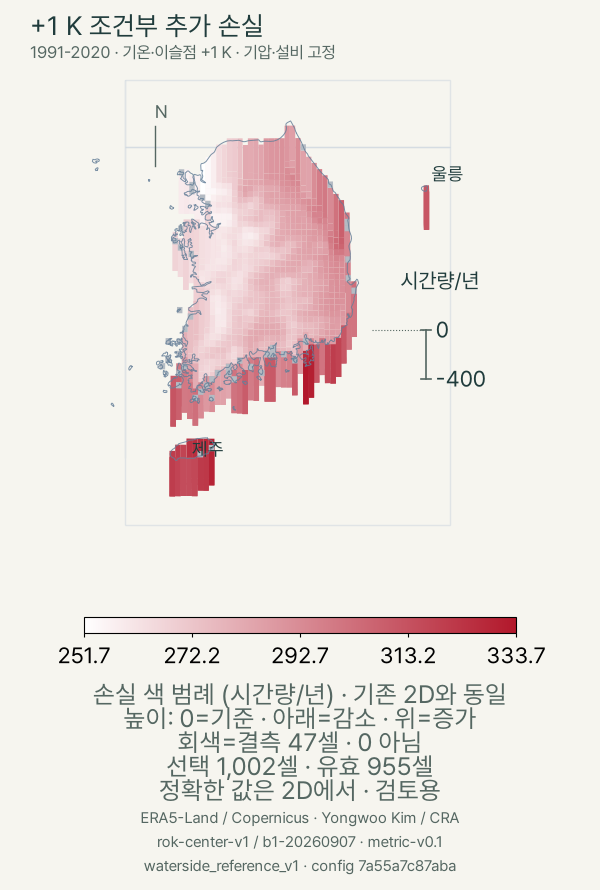
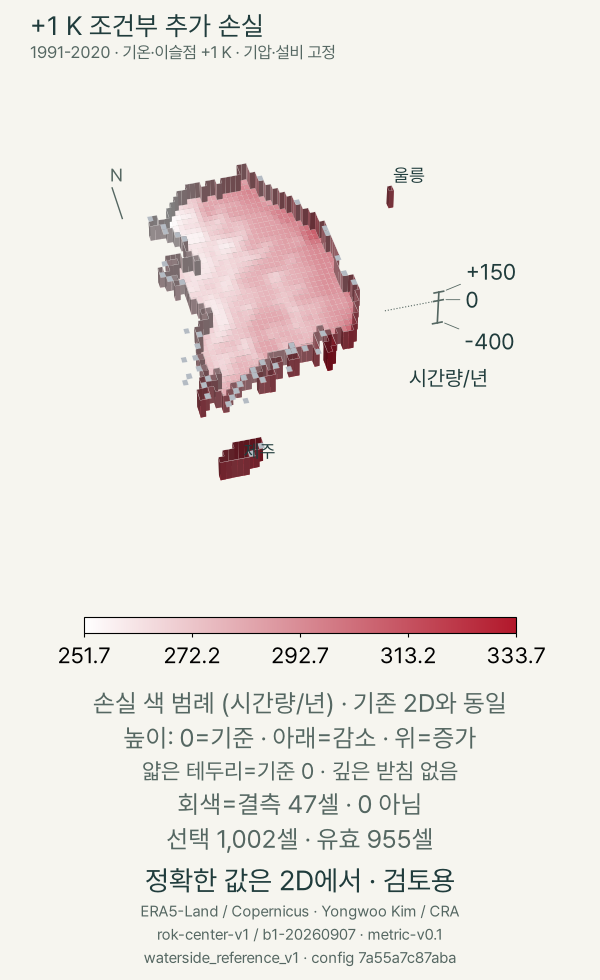
검토판 갱신: 3D 지도 시점·기둥 구조 (원본 7325191)

diff --git a/index.html b/index.html
@@ -10,7 +10,7 @@
 <p class="status">공개 패키지 검토본 · 검토용 표시 유지 <br class="mobile-break">이해 시험·최종 공개 승인은 아직 남아 있습니다.</p></div>
 <section id="time-maps" aria-labelledby="time-maps-title">
 <div class="section-label"><h2 id="time-maps-title">같은 장소, 달라진 냉기 자원</h2><p>각 셀의 1961–1970 평균 대비 · 십년씩 비교</p></div>
-<figure><div class="map-view" data-map-id="time-maps-desktop"><div class="map-toggle" role="group" aria-label="십년 편차 지도 보기 · 모든 지도 함께 전환" hidden><button type="button" data-map-mode="3d" aria-pressed="true">3D</button><button type="button" data-map-mode="2d" aria-pressed="false">2D</button><span>모든 지도 함께 전환</span></div><div data-map-panel="3d"><a href="assets/time-maps-3d-desktop.png" aria-label="십년 편차 3D 큰 원본 보기"><picture><source media="(max-width:760px)" srcset="assets/time-maps-3d-mobile.png" width="1200" height="2390"><img src="assets/time-maps-3d-desktop.png" width="1800" height="1570" alt="여섯 십년의 냉기 자원 3D 지도. 깊이=감소량, 1961–1970 기준면 0에서 감소는 아래로, 증가는 위로 표시합니다. 공통 깊이 축 −400~+150 시간량/년. 색은 기존 편차 지도와 같은 −300~+300 시간량/년, 빨강은 감소, 파랑은 증가. 회색 47셀은 결측이며 0이 아닙니다."></picture></a></div><div data-map-panel="2d" hidden><a href="assets/time-maps-desktop.png" aria-label="십년 편차 지도 큰 원본 보기"><picture><source media="(max-width:760px)" srcset="assets/time-maps-mobile.png" width="780" height="960"><img src="assets/time-maps-desktop.png" width="1440" height="690" alt="1961–1970부터 2011–2020까지 여섯 십년의 냉기 자원 편차 지도. 각 셀의 첫 십년 평균이 기준 0이며 빨강은 감소, 파랑은 증가입니다. 모든 지도는 −300~+300 시간량/년 공통 선형 범례, 회색 빗금은 결측입니다."></picture></a></div><p class="map-reading">깊이=감소량 · 정확한 값은 2D에서. <a href="assets/time-maps-desktop.png">2D 이미지 열기</a></p></div>
+<figure><div class="map-view" data-map-id="time-maps-desktop"><div class="map-toggle" role="group" aria-label="십년 편차 지도 보기 · 모든 지도 함께 전환" hidden><button type="button" data-map-mode="3d" aria-pressed="true">3D</button><button type="button" data-map-mode="2d" aria-pressed="false">2D</button><span>모든 지도 함께 전환</span></div><div data-map-panel="3d"><a href="assets/time-maps-3d-desktop.png" aria-label="십년 편차 3D 큰 원본 보기"><picture><source media="(max-width:760px)" srcset="assets/time-maps-3d-mobile.png" width="1200" height="2560"><img src="assets/time-maps-3d-desktop.png" width="1800" height="1660" alt="여섯 십년의 냉기 자원 3D 지도. 깊이=감소량, 1961–1970 기준면 0에서 감소는 아래로, 증가는 위로 표시합니다. 공통 깊이 축 −400~+150 시간량/년. 색은 기존 편차 지도와 같은 −300~+300 시간량/년, 빨강은 감소, 파랑은 증가. 회색 47셀은 결측이며 0이 아닙니다. 깊은 받침 없이 얇은 테두리만 기준 0에 남깁니다. 기둥은 0에서 값까지이며 값 색 면은 음영 없이, 기둥 옆벽만 음영을 줍니다."></picture></a></div><div data-map-panel="2d" hidden><a href="assets/time-maps-desktop.png" aria-label="십년 편차 지도 큰 원본 보기"><picture><source media="(max-width:760px)" srcset="assets/time-maps-mobile.png" width="780" height="960"><img src="assets/time-maps-desktop.png" width="1440" height="690" alt="1961–1970부터 2011–2020까지 여섯 십년의 냉기 자원 편차 지도. 각 셀의 첫 십년 평균이 기준 0이며 빨강은 감소, 파랑은 증가입니다. 모든 지도는 −300~+300 시간량/년 공통 선형 범례, 회색 빗금은 결측입니다."></picture></a></div><p class="map-reading">3D 깊이=감소량 · 얇은 테두리=기준 0 · 기둥은 0에서 값까지. 정확한 값은 2D에서. <a href="assets/time-maps-desktop.png">2D 이미지 열기</a></p></div>
 <figcaption>정확한 값은 2D에서 확인하세요. 3D에서는 앞쪽 셀이 뒤쪽을 가릴 수 있습니다. 각 지도는 겹치지 않는 10년 평균입니다. 첫 지도의 0은 ‘냉기 자원 없음’이 아니라 ‘기준과 같음’입니다. 약 10km 격자·무보간. <a href="methodology.html#time-visuals">기간·색·계산 방법</a></figcaption></figure>
 <section id="cooling-3d" aria-labelledby="cooling-3d-title"><h3 id="cooling-3d-title">꺼져 가는 냉기 자원(3D)</h3>
 <p>1961–1970 수준을 0으로 둔 판이 냉기 자원이 줄어든 만큼 꺼집니다. <strong>깊이 = 시간량/년</strong>이며, 실제 지형이나 저장된 물질을 뜻하지 않습니다.</p>
@@ -23,10 +23,10 @@
 <p><strong>첫 십년(1961–1970)보다 마지막 십년(2011–2020)의 냉기 자원이 1년에 약 164시간량 적습니다.</strong> 매년 164시간량씩 줄어든다는 뜻도, 60년 누적량도 아닙니다. 중간에 반등한 십년도 있습니다.</p>
 <figure class="bar-figure"><picture><source media="(max-width:760px)" srcset="assets/time-bars-mobile.png" width="780" height="850"><img loading="lazy" src="assets/time-bars-desktop.png" width="1440" height="740" alt="각 십년의 전국 냉기 자원 평균에서 1961–1970 평균을 뺀 막대. 순서대로 0, +2.9, −52.0, −29.4, −128.6, −163.8 시간량/년. 막대는 0에서 출발하며 중간 증가도 표시합니다."></picture><figcaption>십년 평균의 차이(비교−기준). 위 헤드라인의 91시간량은 30년 평균끼리 비교한 값으로, 기준·비교 기간이 다릅니다. 2020년은 2011–2020 십년에 포함됩니다.</figcaption></figure></section>
 <section id="sensitivity"><p class="eyebrow">03 · Conditional experiment / 과거 비교와 구분</p><h2>기온과 이슬점을 함께 1도 높여 보면</h2>
-<div class="columns"><figure><div class="map-view" data-map-id="sensitivity"><div class="map-toggle" role="group" aria-label="조건부 +1 K 지도 보기 · 모든 지도 함께 전환" hidden><button type="button" data-map-mode="3d" aria-pressed="true">3D</button><button type="button" data-map-mode="2d" aria-pressed="false">2D</button><span>모든 지도 함께 전환</span></div><div data-map-panel="3d"><a href="assets/sensitivity-3d.png" aria-label="조건부 +1 K 3D 큰 원본 보기"><img loading="lazy" src="assets/sensitivity-3d.png" width="600" height="890" alt="조건부 +1 K 냉기 자원 추가 손실 3D 지도. 깊이=감소량, 기준면 0에서 251.7~333.7 시간량/년 모두 아래로 내려갑니다. 시간량 지도와 같은 깊이 축 −400~+150 시간량/년. 색은 기존 2D 최소–최대 빨강 범례. 회색은 결측이며 0이 아닙니다."></a></div><div data-map-panel="2d" hidden><a href="assets/sensitivity.png"><img loading="lazy" src="assets/sensitivity.png" width="1440" height="1800" alt="기온과 이슬점을 함께 1 K 높인 조건부 냉기 자원 추가 손실 지도. 기압과 설비 고정. 국내 유효셀 251.7~333.7 시간량/년 최소–최대 선형 범례이며 0에서 시작하지 않습니다."></a></div><p class="map-reading">깊이=감소량 · 정확한 값은 2D에서. <a href="assets/sensitivity.png">2D 이미지 열기</a></p></div><figcaption>정확한 값은 2D에서 · 조건부 +1 K 냉기 자원 추가 손실 · 시간량/년</figcaption></figure><div><span class="tag">조건부 모형 실험 · 미래 예보 아님</span><h3>같은 설비, 다른 기상 입력</h3><p>1991–2020 기상자료의 <strong>건구온도와 노점온도를 함께 +1 K</strong> 이동시켜 계산했습니다. 기압과 설비는 고정했습니다. 이 가정에서 냉기 자원이 얼마나 더 줄어드는지 보여줍니다.</p><p>국내 유효셀의 추가 손실은 251.7–333.7 시간량/년입니다. 색은 이 최소–최대 범위에 선형으로 대응하며 <strong>0에서 시작하지 않습니다</strong>. 옅은 색도 손실이며 안전을 뜻하지 않습니다.</p><p>특정 미래 시기의 변화, 손실 속도나 가속도를 예측하는 값이 아닙니다. 위의 과거 기간 차이에 더하거나 같은 종류의 비교로 읽지 않습니다.</p><p><a href="methodology.html#metrics">+1 K 섭동의 가정과 한계 →</a></p></div></div></section>
+<div class="columns"><figure><div class="map-view" data-map-id="sensitivity"><div class="map-toggle" role="group" aria-label="조건부 +1 K 지도 보기 · 모든 지도 함께 전환" hidden><button type="button" data-map-mode="3d" aria-pressed="true">3D</button><button type="button" data-map-mode="2d" aria-pressed="false">2D</button><span>모든 지도 함께 전환</span></div><div data-map-panel="3d"><a href="assets/sensitivity-3d.png" aria-label="조건부 +1 K 3D 큰 원본 보기"><img loading="lazy" src="assets/sensitivity-3d.png" width="600" height="980" alt="조건부 +1 K 냉기 자원 추가 손실 3D 지도. 깊이=감소량, 기준면 0에서 251.7~333.7 시간량/년 모두 아래로 내려갑니다. 시간량 지도와 같은 깊이 축 −400~+150 시간량/년. 색은 기존 2D 최소–최대 빨강 범례. 회색은 결측이며 0이 아닙니다. 깊은 받침 없이 얇은 테두리만 기준 0에 남깁니다. 기둥은 0에서 값까지이며 값 색 면은 음영 없이, 기둥 옆벽만 음영을 줍니다."></a></div><div data-map-panel="2d" hidden><a href="assets/sensitivity.png"><img loading="lazy" src="assets/sensitivity.png" width="1440" height="1800" alt="기온과 이슬점을 함께 1 K 높인 조건부 냉기 자원 추가 손실 지도. 기압과 설비 고정. 국내 유효셀 251.7~333.7 시간량/년 최소–최대 선형 범례이며 0에서 시작하지 않습니다."></a></div><p class="map-reading">3D 깊이=감소량 · 얇은 테두리=기준 0 · 기둥은 0에서 값까지. <strong>가려지는 셀이 많습니다. 정확한 값은 2D에서.</strong> <a href="assets/sensitivity.png">2D 이미지 열기</a></p></div><figcaption>정확한 값은 2D에서 · 조건부 +1 K 냉기 자원 추가 손실 · 시간량/년</figcaption></figure><div><span class="tag">조건부 모형 실험 · 미래 예보 아님</span><h3>같은 설비, 다른 기상 입력</h3><p>1991–2020 기상자료의 <strong>건구온도와 노점온도를 함께 +1 K</strong> 이동시켜 계산했습니다. 기압과 설비는 고정했습니다. 이 가정에서 냉기 자원이 얼마나 더 줄어드는지 보여줍니다.</p><p>국내 유효셀의 추가 손실은 251.7–333.7 시간량/년입니다. 색은 이 최소–최대 범위에 선형으로 대응하며 <strong>0에서 시작하지 않습니다</strong>. 옅은 색도 손실이며 안전을 뜻하지 않습니다.</p><p>특정 미래 시기의 변화, 손실 속도나 가속도를 예측하는 값이 아닙니다. 위의 과거 기간 차이에 더하거나 같은 종류의 비교로 읽지 않습니다.</p><p><a href="methodology.html#metrics">+1 K 섭동의 가정과 한계 →</a></p></div></div></section>
 <section id="maps"><p class="eyebrow">Regional comparison · 1961–1990 / 1991–2020</p><h2>지역별로 보면</h2><div class="cards regional-cards">
-<article><h3>냉기 자원 감소</h3><figure><div class="map-view" data-map-id="ench-loss"><div class="map-toggle" role="group" aria-label="냉기 자원 감소 지도 보기 · 모든 지도 함께 전환" hidden><button type="button" data-map-mode="3d" aria-pressed="true">3D</button><button type="button" data-map-mode="2d" aria-pressed="false">2D</button><span>모든 지도 함께 전환</span></div><div data-map-panel="3d"><a href="assets/ench-loss-3d.png" aria-label="냉기 자원 감소 3D 큰 원본 보기"><img loading="lazy" src="assets/ench-loss-3d.png" width="600" height="890" alt="지역별 냉기 자원 감소 3D 지도. 깊이=감소량, 1961–1990 대비 1991–2020 손실만큼 기준면 0 아래로 내려갑니다. 공통 깊이 축 −400~+150 시간량/년. 색은 기존 2D와 같은 0–130 시간량/년 빨강 범례. 회색은 결측이며 0이 아닙니다."></a></div><div data-map-panel="2d" hidden><a href="assets/ench-loss.png"><img loading="lazy" src="assets/ench-loss.png" width="1440" height="1800" alt="지역별 냉기 자원 감소량. 1961–1990 대비 1991–2020, 0–130 시간량/년 범례. 양수는 감소, 진한 빨강일수록 감소가 큽니다."></a></div><p class="map-reading">깊이=감소량 · 정확한 값은 2D에서. <a href="assets/ench-loss.png">2D 이미지 열기</a></p></div><figcaption>정확한 값은 2D에서 · 두 30년 기간의 비교. 0–130 시간량/년 선형 범례, 0은 변화 없음입니다. 위 편차 지도와 달리 양수가 감소입니다.</figcaption></figure></article>
-<article><h3>서늘했던 야간시간 감소</h3><figure><div class="map-view" data-map-id="nch20-loss"><div class="map-toggle" role="group" aria-label="서늘한 야간시간 감소 지도 보기 · 모든 지도 함께 전환" hidden><button type="button" data-map-mode="3d" aria-pressed="true">3D</button><button type="button" data-map-mode="2d" aria-pressed="false">2D</button><span>모든 지도 함께 전환</span></div><div data-map-panel="3d"><a href="assets/nch20-loss-3d.png" aria-label="서늘한 야간시간 감소 3D 큰 원본 보기"><img loading="lazy" src="assets/nch20-loss-3d.png" width="600" height="890" alt="NCH20 감소 3D 지도. 깊이=감소량, 기준면 0에서 감소는 아래로, 증가는 위로 표시합니다. 깊이 축 −400~+150 시간/년이며 시계 시간입니다. 1시간의 그림 높이는 1시간량과 같지만 서로 다른 양입니다. 색은 기존 2D와 같은 −5–95 시간/년 범례. 회색은 결측이며 0이 아닙니다."></a></div><div data-map-panel="2d" hidden><a href="assets/nch20-loss.png"><img loading="lazy" src="assets/nch20-loss.png" width="1440" height="1800" alt="NCH20 감소량. −5–95 시간/년 비대칭 선형 범례, 검은 눈금은 0. 양수는 감소, 음수는 증가."></a></div><p class="map-reading">깊이=감소량 · 정확한 값은 2D에서. <a href="assets/nch20-loss.png">2D 이미지 열기</a></p></div><figcaption>정확한 값은 2D에서 · 시간량과는 서로 다른 양이며 합산하지 않습니다. 1시간의 그림 높이만 1시간량과 같습니다. KST 21:00–06:59, 기온 ≤20°C. −5–95 시간/년 비대칭 선형 범례. 양수=감소, 음수=증가, 검은 선=0입니다.</figcaption></figure></article></div>
+<article><h3>냉기 자원 감소</h3><figure><div class="map-view" data-map-id="ench-loss"><div class="map-toggle" role="group" aria-label="냉기 자원 감소 지도 보기 · 모든 지도 함께 전환" hidden><button type="button" data-map-mode="3d" aria-pressed="true">3D</button><button type="button" data-map-mode="2d" aria-pressed="false">2D</button><span>모든 지도 함께 전환</span></div><div data-map-panel="3d"><a href="assets/ench-loss-3d.png" aria-label="냉기 자원 감소 3D 큰 원본 보기"><img loading="lazy" src="assets/ench-loss-3d.png" width="600" height="980" alt="지역별 냉기 자원 감소 3D 지도. 깊이=감소량, 1961–1990 대비 1991–2020 손실만큼 기준면 0 아래로 내려갑니다. 공통 깊이 축 −400~+150 시간량/년. 색은 기존 2D와 같은 0–130 시간량/년 빨강 범례. 회색은 결측이며 0이 아닙니다. 깊은 받침 없이 얇은 테두리만 기준 0에 남깁니다. 기둥은 0에서 값까지이며 값 색 면은 음영 없이, 기둥 옆벽만 음영을 줍니다."></a></div><div data-map-panel="2d" hidden><a href="assets/ench-loss.png"><img loading="lazy" src="assets/ench-loss.png" width="1440" height="1800" alt="지역별 냉기 자원 감소량. 1961–1990 대비 1991–2020, 0–130 시간량/년 범례. 양수는 감소, 진한 빨강일수록 감소가 큽니다."></a></div><p class="map-reading">3D 깊이=감소량 · 얇은 테두리=기준 0 · 기둥은 0에서 값까지. 정확한 값은 2D에서. <a href="assets/ench-loss.png">2D 이미지 열기</a></p></div><figcaption>정확한 값은 2D에서 · 두 30년 기간의 비교. 0–130 시간량/년 선형 범례, 0은 변화 없음입니다. 위 편차 지도와 달리 양수가 감소입니다.</figcaption></figure></article>
+<article><h3>서늘했던 야간시간 감소</h3><figure><div class="map-view" data-map-id="nch20-loss"><div class="map-toggle" role="group" aria-label="서늘한 야간시간 감소 지도 보기 · 모든 지도 함께 전환" hidden><button type="button" data-map-mode="3d" aria-pressed="true">3D</button><button type="button" data-map-mode="2d" aria-pressed="false">2D</button><span>모든 지도 함께 전환</span></div><div data-map-panel="3d"><a href="assets/nch20-loss-3d.png" aria-label="서늘한 야간시간 감소 3D 큰 원본 보기"><img loading="lazy" src="assets/nch20-loss-3d.png" width="600" height="980" alt="NCH20 감소 3D 지도. 깊이=감소량, 기준면 0에서 감소는 아래로, 증가는 위로 표시합니다. 깊이 축 −400~+150 시간/년이며 시계 시간입니다. 1시간의 그림 높이는 1시간량과 같지만 서로 다른 양입니다. 색은 기존 2D와 같은 −5–95 시간/년 범례. 회색은 결측이며 0이 아닙니다. 깊은 받침 없이 얇은 테두리만 기준 0에 남깁니다. 기둥은 0에서 값까지이며 값 색 면은 음영 없이, 기둥 옆벽만 음영을 줍니다."></a></div><div data-map-panel="2d" hidden><a href="assets/nch20-loss.png"><img loading="lazy" src="assets/nch20-loss.png" width="1440" height="1800" alt="NCH20 감소량. −5–95 시간/년 비대칭 선형 범례, 검은 눈금은 0. 양수는 감소, 음수는 증가."></a></div><p class="map-reading">3D 깊이=감소량 · 얇은 테두리=기준 0 · 기둥은 0에서 값까지. 정확한 값은 2D에서. <a href="assets/nch20-loss.png">2D 이미지 열기</a></p></div><figcaption>정확한 값은 2D에서 · 시간량과는 서로 다른 양이며 합산하지 않습니다. 1시간의 그림 높이만 1시간량과 같습니다. KST 21:00–06:59, 기온 ≤20°C. −5–95 시간/년 비대칭 선형 범례. 양수=감소, 음수=증가, 검은 선=0입니다.</figcaption></figure></article></div>
 <!-- DISTRIBUTION:START -->
 <div class="table-scroll"><table><caption>국내 중심점 분포 · 지표별 단위 구분</caption><thead><tr><th scope="col">지표</th><th scope="col">최소</th><th scope="col">중앙</th><th scope="col">최대</th><th scope="col">유효 / 결측 셀</th></tr></thead><tbody><tr><th scope="row">냉기 자원 감소 (시간량/년)</th><td>33.4</td><td>92.9</td><td>126.2</td><td>955 / 47</td></tr><tr><th scope="row">NCH20 감소 (시간/년)</th><td>-2.1</td><td>46.5</td><td>94.2</td><td>955 / 47</td></tr><tr><th scope="row">조건부 +1 K 냉기 자원 추가 손실 (시간량/년)</th><td>251.7</td><td>277.5</td><td>333.7</td><td>955 / 47</td></tr></tbody></table></div>
 <!-- DISTRIBUTION:END --><p>소수 자릿수는 계산값을 표시·대조하기 위한 것이며 0.1시간량·0.1시간 수준의 정확도를 뜻하지 않습니다. 자료·설비·경계 선택과 기간 간 변동에 따른 불확실성을 합친 신뢰구간은 제시하지 않았습니다. 기준·비교·차이는 각각 반올림하므로 표시값의 뺄셈과 차이가 날 수 있습니다.</p><p class="muted">국내 유효셀 중심점의 비가중 분포이며 전국 총량·면적가중 평균·인구 위험이 아닙니다.</p></section>

diff --git a/methodology.html b/methodology.html
@@ -6,7 +6,7 @@
 <h3>전국 값과 헤드라인: 두 표준 30년 기간</h3><p>연도별 전국 냉기 자원은 국가 마스크 included=True인 1,002셀 중 60년 모두 유효한 955셀의 비가중 평균입니다. 전 기간 결측인 47셀은 제외하며 0으로 채우지 않습니다. 면적·인구가중 평균이나 전국 총량이 아닙니다.</p><p><code>전국 연간값 = 유효 955셀의 냉기 자원 산술평균</code><br><code>30년 감소량 = mean(1961–1990) − mean(1991–2020)</code></p><p>기준 6,265.389 → 비교 6,174.487 시간량/년, 감소 90.902 시간량/년입니다. 감소율은 기준기간 전체 냉기 자원를 분모로 한 1.450865%이며, 헤드라인은 각각 <strong>91시간량·1.5%</strong>로 반올림합니다. 누적 손실이나 매년 줄어드는 속도가 아닙니다.</p>
 <h3>십년 편차 지도와 막대: 다른 기간을 비교합니다</h3><p>구간은 <strong>1961–1970, 1971–1980, 1981–1990, 1991–2000, 2001–2010, 2011–2020</strong>입니다. 각각 10개 완결연도이며 2020은 마지막 십년에 포함합니다. 1961–1969처럼 9년인 첫 구간이나 2020 단년 구간은 만들지 않습니다.</p><p><code>셀별 편차 = 해당 십년 셀 평균 − 그 셀의 1961–1970 평균</code><br><code>전국 막대 = 해당 십년 전국 평균 − 1961–1970 전국 평균</code></p><p>정적 여섯 지도와 막대는 <strong>서로 겹치지 않는 십년 평균</strong>이며 후행 이동평균선이 아닙니다. 지도는 기존과 같은 국가 마스크·0.1°셀·EPSG:5179 투영·전국 고정 시야이며 공간 보간하지 않습니다. 막대는 0에서 출발하고 중간의 증가도 표시합니다.</p><p>지도 색은 <strong>−300~+300 시간량/년</strong>, 0 중심 대칭 선형 범례로 전 셀·전 51개 후행창의 편차 범위(−255.47~+107.35)를 포함합니다. 모든 정적 지도와 편차 영상에서 고정합니다. 빨강은 음의 변화(감소), 파랑은 양의 변화(증가), 0은 기준과 같음, 회색 빗금은 결측입니다. 기준 지도에서 흰색은 냉기 자원 자체가 0이라는 뜻이 아닙니다.</p><p>헤드라인의 30년 비교와 막대의 첫·끝 십년 비교는 기준·비교 기간이 달라 감소량이 다릅니다. 어느 수치도 연간 감소 속도나 누적량이 아닙니다. 이 비교에서는 일 단위 환산을 사용하지 않습니다.</p>
 <h3>선택 재생 편차 영상</h3><p>각 셀의 후행 10년 평균에서 1961–1970 평균을 뺍니다. 10개 유효연도가 모두 있어야 계산하며, 첫 창 1961–1970부터 마지막 창 2011–2020까지 종료연도 1970–2020의 51프레임·8fps입니다. 공간·시간 보간하지 않고 자동재생하지 않습니다. 겹치는 창은 독립 표본이 아닙니다.</p>
-<h3 id="three-d-method">보조 영상: 기준면 아래로 꺼지는 3D B판</h3><p><strong>정적 지도 4종은 3D가 기본</strong>이며, 어느 지도에서든 3D / 2D 버튼을 누르면 모두 함께 전환됩니다. 선택은 이 브라우저에 저장됩니다. JavaScript가 꺼져 있어도 3D와 2D 원본 링크를 볼 수 있습니다.</p><p>정적 3D는 <strong>기준면 0</strong>에서 감소량만큼 아래로, 증가량만큼 위로 그립니다. 십년 편차·두 30년 냉기 자원 감소·+1 K 조건부 손실은 <strong>−400~+150 시간량/년의 같은 깊이 눈금과 같은 지리 대비 높이 비율</strong>을 씁니다. 민감도도 0에서 내려가며 축을 자르지 않습니다. 화면에 맞춘 그림 전체의 축소는 다를 수 있으므로 눈금으로 비교하세요. NCH20도 <strong>−400~+150 시간/년</strong>에 같은 높이 비율을 적용합니다. 그림에서 1시간과 1시간량의 높이는 같지만 <strong>서로 다른 양</strong>이며 합산하거나 물리적으로 같다고 해석하지 않습니다. NCH20이 상대적으로 얕게 보이는 것은 같은 비율을 지킨 결과입니다.</p><p>정적 3D의 색 범위·눈금·팔레트는 각 기존 2D와 동일합니다. 십년 편차는 음수=손실, 다른 지도 색 범례는 양수=손실입니다. 해안선은 <strong>0 기준면에만</strong> 그리며 바닥에는 복제하지 않습니다. 유효셀은 같은 평면 좌표에서 감소는 아래로, 증가는 위로 이어지는 계단형 판이며 가장자리를 0까지 연결합니다. 0면을 불투명하게 덮거나 결측 구멍을 채우지 않습니다. <strong>고도 58°·방위 −90°의 직교투영, box 비율 460:630:180</strong>으로 북쪽을 위에 두고 남쪽 상공에서 내려다봅니다. 무조명이며 네 지도 모두 같은 비율입니다. 깊이 축은 지도 오른쪽 가장자리의 바다 쪽에 세로로 놓고, 해안선과 같은 0 기준면에서 −400까지 실제 투영 비율대로 표시합니다. 왼쪽의 별도 기준 막대는 없앴습니다. 색 범례의 기존 모든 눈금은 유지합니다. 모바일 십년 지도는 2열×3행이고 반복 부제는 묶음에 한 번만 표시합니다. 회색 47셀은 결측 표식이지 0이 아닙니다. 앞쪽 셀이 뒤쪽을 가릴 수 있으므로 <strong>정확한 값은 2D에서</strong> 확인하세요. <a href="assets/map-3d-manifest.json">정적 3D 입력 SHA·깊이·색 범례 manifest</a></p><h4>기존 보조 3D 영상 (색 규칙은 정적 지도와 다름)</h4><p><code>높이 = 해당 후행 10년 셀 평균 − 그 셀의 1961–1970 평균</code>. 1961–1970 기준면의 높이는 0입니다. 음의 높이(아래)는 손실, 양의 높이(위)는 증가이며 잘라내지 않습니다. 깊이는 시간량/년 단위의 편차이지 실제 지형·부피·저장량이 아닙니다.</p><p>높이 축은 −300~+150 시간량/년, 시점은 남동쪽 상공의 고정 직교투영입니다. 원래 셀별 평면을 유지하고 인접 유효셀 사이에만 수직 면을 붙입니다. 공간 보간이나 셀값의 평활화는 없으며, 결측 47셀은 회색 기준 높이에 놓되 통계에서 제외합니다.</p><p>색의 양은 <code>손실 = −편차</code>입니다. −110~260 시간량/년 고정 선형 범위에서 −110은 진한 파랑(#08306b), 0은 파랑(#2879bd), 125는 흰색, 260은 진한 빨강(#b2182b)으로 연결합니다. <strong>2D에서 흰색은 변화 0이지만, 3D B판의 흰색은 125 시간량/년 손실입니다.</strong> 색을 서로 같은 수치로 읽지 않습니다. 조명 명암으로 값을 바꾸지 않습니다.</p><p>영상은 1970–2020년 종료의 51개 후행 10년 평균 사이를 선형 전환합니다. 중간 화면은 추가 관측값이 아니라 전환용 표현입니다. 24 fps·240프레임·10초, 양 끝에서 12프레임씩 머뭅니다. 클릭 재생만 제공하고 자동재생하지 않습니다. 포스터는 MP4의 마지막 프레임입니다. <a href="assets/cooling-3d-manifest.json">3D 입력·출처·설정·미디어 manifest</a></p>
+<h3 id="three-d-method">보조 영상: 기준면 아래로 꺼지는 3D B판</h3><p><strong>정적 지도 4종은 3D가 기본</strong>이며, 어느 지도에서든 3D / 2D 버튼을 누르면 모두 함께 전환됩니다. 선택은 이 브라우저에 저장됩니다. JavaScript가 꺼져 있어도 3D와 2D 원본 링크를 볼 수 있습니다.</p><p>정적 3D는 <strong>기준면 0</strong>에서 감소량만큼 아래로, 증가량만큼 위로 그립니다. 십년 편차·두 30년 냉기 자원 감소·+1 K 조건부 손실은 <strong>−400~+150 시간량/년의 같은 깊이 눈금과 같은 지리 대비 높이 비율</strong>을 씁니다. 민감도도 0에서 내려가며 축을 자르지 않습니다. 화면에 맞춘 그림 전체의 축소는 다를 수 있으므로 눈금으로 비교하세요. NCH20도 <strong>−400~+150 시간/년</strong>에 같은 높이 비율을 적용합니다. 그림에서 1시간과 1시간량의 높이는 같지만 <strong>서로 다른 양</strong>이며 합산하거나 물리적으로 같다고 해석하지 않습니다. NCH20이 상대적으로 얕게 보이는 것은 같은 비율을 지킨 결과입니다.</p><p>정적 3D의 색 범위·눈금·팔레트는 각 기존 2D와 동일합니다. 십년 편차는 음수=손실, 다른 지도 색 범례는 양수=손실입니다. 평평한 해안선·반도 배경 그림과 깊은 석판 받침은 없습니다. <strong>각 셀은 기준면 0에서 실제 값까지만 이어지는 기둥</strong>으로, 감소는 아래로, 증가는 위로 뻗습니다. 유효셀 값 면은 보간하지 않고, 인접 기둥의 겹치는 내부 벽은 생략합니다. 해안 윤곽에는 바깥 셀 꼭짓점을 약0.65km 안쪽으로 조정한 <strong>두께 없는 좁은 0면 테두리</strong>만 남깁니다. 결측은 0 높이의 얇은 회색 판으로 표시하지만 값이 0이라는 뜻은 아닙니다. 실제 지형·부피·저장량을 나타내지 않습니다. <strong>고도 45°·방위 −105° 원근 투영(focal length 1.0)</strong>을 유지하고, 높이 비율은 전 지도 공통으로 기존의 1/3인 <strong>60/550</strong>으로 낮췄습니다. box는 460:630:75.2727이며 표시 범위 −540~+150의 하단 빈 여백에는 데이터나 눈금이 없습니다. 데이터값이나 기준면을 옮기지 않고 오목한 패임을 얕게 표현합니다. 네 지도 모두 같은 카메라·높이 비율을 쓰지만 원근에 따라 화면상 길이는 위치별로 달라지므로 깊이 축으로 읽습니다. 빛은 화면 좌상단 방향이며 <strong>그 셀의 색을 어둡게 한 기둥 수직 벽에만 음영</strong>을 줍니다. <strong>값을 칠한 윗면·아래 끝면은 음영이나 투사 그림자 없이 기존 2D 색 그대로</strong>입니다. 벽 색의 명암은 형태를 위한 것이므로 수치는 음영 없는 값 면에서 읽습니다. 깊이 축은 +150·0·−400만 표시하고 기존 색 범례의 모든 눈금은 유지합니다. 낮아진 축의 숫자는 연결선으로 분리했지만 실제 눈금 위치는 값 높이에 있습니다. 범례 문구는 글자 높이를 재서 간격을 확보했습니다. 모바일 십년 지도는 2열×3행이고 반복 부제는 묶음에 한 번만 표시합니다. 지도 폭350px에서 깊이·색 범례 눈금은 약13px로 읽히게 했습니다. 회색 47셀은 결측 표식이지 0이 아닙니다. 앞쪽 셀이 뒤쪽을 가릴 수 있으므로 <strong>정확한 값은 2D에서</strong> 확인하세요. <a href="assets/map-3d-manifest.json">정적 3D 입력 SHA·깊이·색 범례 manifest</a></p><h4>기존 보조 3D 영상 (색 규칙은 정적 지도와 다름)</h4><p><code>높이 = 해당 후행 10년 셀 평균 − 그 셀의 1961–1970 평균</code>. 1961–1970 기준면의 높이는 0입니다. 음의 높이(아래)는 손실, 양의 높이(위)는 증가이며 잘라내지 않습니다. 깊이는 시간량/년 단위의 편차이지 실제 지형·부피·저장량이 아닙니다.</p><p>높이 축은 −300~+150 시간량/년, 시점은 남동쪽 상공의 고정 직교투영입니다. 원래 셀별 평면을 유지하고 인접 유효셀 사이에만 수직 면을 붙입니다. 공간 보간이나 셀값의 평활화는 없으며, 결측 47셀은 회색 기준 높이에 놓되 통계에서 제외합니다.</p><p>색의 양은 <code>손실 = −편차</code>입니다. −110~260 시간량/년 고정 선형 범위에서 −110은 진한 파랑(#08306b), 0은 파랑(#2879bd), 125는 흰색, 260은 진한 빨강(#b2182b)으로 연결합니다. <strong>2D에서 흰색은 변화 0이지만, 3D B판의 흰색은 125 시간량/년 손실입니다.</strong> 색을 서로 같은 수치로 읽지 않습니다. 조명 명암으로 값을 바꾸지 않습니다.</p><p>영상은 1970–2020년 종료의 51개 후행 10년 평균 사이를 선형 전환합니다. 중간 화면은 추가 관측값이 아니라 전환용 표현입니다. 24 fps·240프레임·10초, 양 끝에서 12프레임씩 머뭅니다. 클릭 재생만 제공하고 자동재생하지 않습니다. 포스터는 MP4의 마지막 프레임입니다. <a href="assets/cooling-3d-manifest.json">3D 입력·출처·설정·미디어 manifest</a></p>
 <h3>보조 그림: 해마다의 변동을 숨기지 않은 냉기 줄무늬</h3><p><code>연간 편차 = 해당 연도 냉기 자원 − 같은 계열의 1961–1990 평균</code>. 전국과 서울·제주·대관령 최근접 셀을 각각 자기 기준 평균과 비교합니다. 도시 전체 평균은 아닙니다.</p><figure><picture><source media="(max-width:760px)" srcset="assets/cooling-stripes-mobile.png" width="780" height="1400"><img loading="lazy" src="assets/cooling-stripes-desktop.png" width="1440" height="1000" alt="전국과 서울·제주·대관령 최근접 셀의 연간 냉기 자원 편차 줄무늬. 해마다 등락이 크며 후행 10년 평균선을 함께 표시했습니다. 1961–1990 기준, 네 계열 공통 −550~+550 시간량/년 선형 범례."></picture><figcaption>색띠는 한 해 한 줄, 선은 10개 완결연도의 후행 평균(1970년부터)입니다. 연변동의 크기를 설명하는 보조 그림입니다.</figcaption></figure><p>줄무늬는 네 계열 전체의 최대 절대 편차를 포함하는 <strong>−550~+550 시간량/년</strong>의 고정 선형 범례입니다. 손실이 클수록 진한 빨강입니다. 0은 중립, 양의 편차는 파랑입니다. 선도 같은 범위의 시간량/년 축을 사용하며 회귀선·예측선이 아닙니다. 지도 ±300과 줄무늬 ±550의 같은 색을 같은 크기로 비교하면 안 됩니다.</p><p>전국 연간값의 선형 추세를 제거한 잔차 표준편차는 약 139 시간량/년(ddof=0)으로 30년 평균 차이 약91 시간량/년보다 큽니다. 이 표준편차는 신뢰구간이나 원인별 기여, 추세 유의성 판정이 아닙니다.</p>
 <h3>검토 기록: 냉기 자원 절대 수준 영상</h3><p>수준 영상은 이번에 표시 용어만 갱신했으며, 감소량이 아니라 냉기 자원 수준을 5,100–7,300 시간량/년 고정 범례로 보여줍니다. 지역별 수준 차이가 시간 변화보다 커 변화가 작게 보일 수 있어 첫 흐름에서 제외했습니다. <a href="assets/ench-10y.mp4">수준 타임랩스 MP4</a> · <a href="assets/ench-10y.gif">수준 GIF</a></p><p>시간 시각화의 입력·설정·생성 코드·폰트 해시와 이미지/영상 해시는 <a href="assets/time-viz-manifest.json">시간 시각화 manifest</a>에 기록했습니다. 기존 데이터 릴리즈 manifest는 바꾸지 않았습니다.</p></section>
 <section id="choices"><h2>3. 경계선을 어디에 긋느냐가 답을 만듭니다</h2><div class="table-scroll"><table><caption>현재 고정한 선택</caption><thead><tr><th scope="col">선택</th><th scope="col">계약</th></tr></thead><tbody><tr><th scope="row">설비</th><td>공급 18°C / 환수 24°C / 접근온도 3+2 K</td></tr><tr><th scope="row">감응 밴드</th><td>습구 13–19°C</td></tr><tr><th scope="row">+1 K 섭동의 습도 관례</th><td>건구·노점 각각 +1 K, 기압·설비 고정. 노점강하 T_db−T_dp 보존, 상대습도 보존 아님 (+2 K도 같은 관례)</td></tr><tr><th scope="row">완전성</th><td>셀×연도 유효시간 98% 미만은 null</td></tr><tr><th scope="row">기간 평균</th><td>결측 연도 제외, 0 대체 없음</td></tr><tr><th scope="row">국내 포함</th><td>ADM0가 EPSG:4326 셀 중심점을 covers</td></tr><tr><th scope="row">국내 통계</th><td>유효셀 비가중 분포, 전국 총합 아님</td></tr></tbody></table></div><p>냉각 감응이 있는 온난한 비포화 구간에서는 노점강하 보존 시 상대습도가 일반적으로 조금 올라가므로, 상대습도 보존 대안보다 습구 상승과 냉기 자원 손실을 크게 만드는 방향입니다. 포화 상태나 자유냉각 충족률의 상·하한에서는 차이가 없을 수 있으며, 전국 집계 차이의 크기·지역 순위는 대안 재계산을 하지 않아 확정하지 않습니다.</p><p>지도·통계에 동일 마스크를 적용했습니다. 경계 위는 포함, 버퍼·보간은 없습니다. 선택 1,002셀 중 유효 955셀, 전기간 결측 47셀입니다. 이번 유효셀은 두 기간 각각 30년이 유효합니다. 후속 데이터에서는 다시 검증해야 합니다.</p><p>경계는 Natural Earth를 원천으로 하는 geoBoundaries gbOpen <code>KOR-ADM0-49999745</code>, represented year 2021, 고정 버전 <code>9469f09</code>입니다. 법정·지적 경계가 아닙니다. 수집영역 33.0–38.7°N / 125.6–131.0°E 밖인 독도·서해 일부 도서는 포함되지 않습니다. 작은 섬·해안도 중심점 규칙이나 결측 때문에 빠질 수 있습니다.</p><p>두 기간의 차이는 고정 설비 모형에 서로 다른 기상 입력을 넣어 얻은 기술적 비교입니다. 온실가스 강제력, 도시화·국지 폐열, 자연변동 각각의 기여를 분리하거나 인위적 기후변화에 귀속하지 않습니다. 30년 평균 비교 자체가 자연변동의 제거를 보장하지는 않습니다. 개별 시설의 책임이나 냉각 사용량도 식별하지 않습니다. +1/+2 K 비교는 동일 설정에서 섭동 크기에 따른 응답을 살펴본 것입니다. 밴드 폭·설비·기준기간·습도 관례를 바꾸는 감도분석을 대신하지 않으며, 해당 대안 분석은 아직 수행하지 않았습니다. 냉기 자원의 습구 밴드뿐 아니라 NCH20의 20°C 문턱·야간 시간창, 비교 기준기간, 공간 집계와 결측 규칙도 결과를 좌우합니다. 이 선택들을 바꾸는 감도분석은 미완료입니다. 현재는 엑서지를 계산하지 않으므로 열역학적 기준상태(dead state)를 적용하지 않았으며, 1961–1990은 통계적 비교 기준기간이지 dead state가 아닙니다. 향후 엑서지 계정을 도입한다면 기준환경을 별도로 정의하고 그 선택의 민감도를 검토해야 합니다.</p></section>
